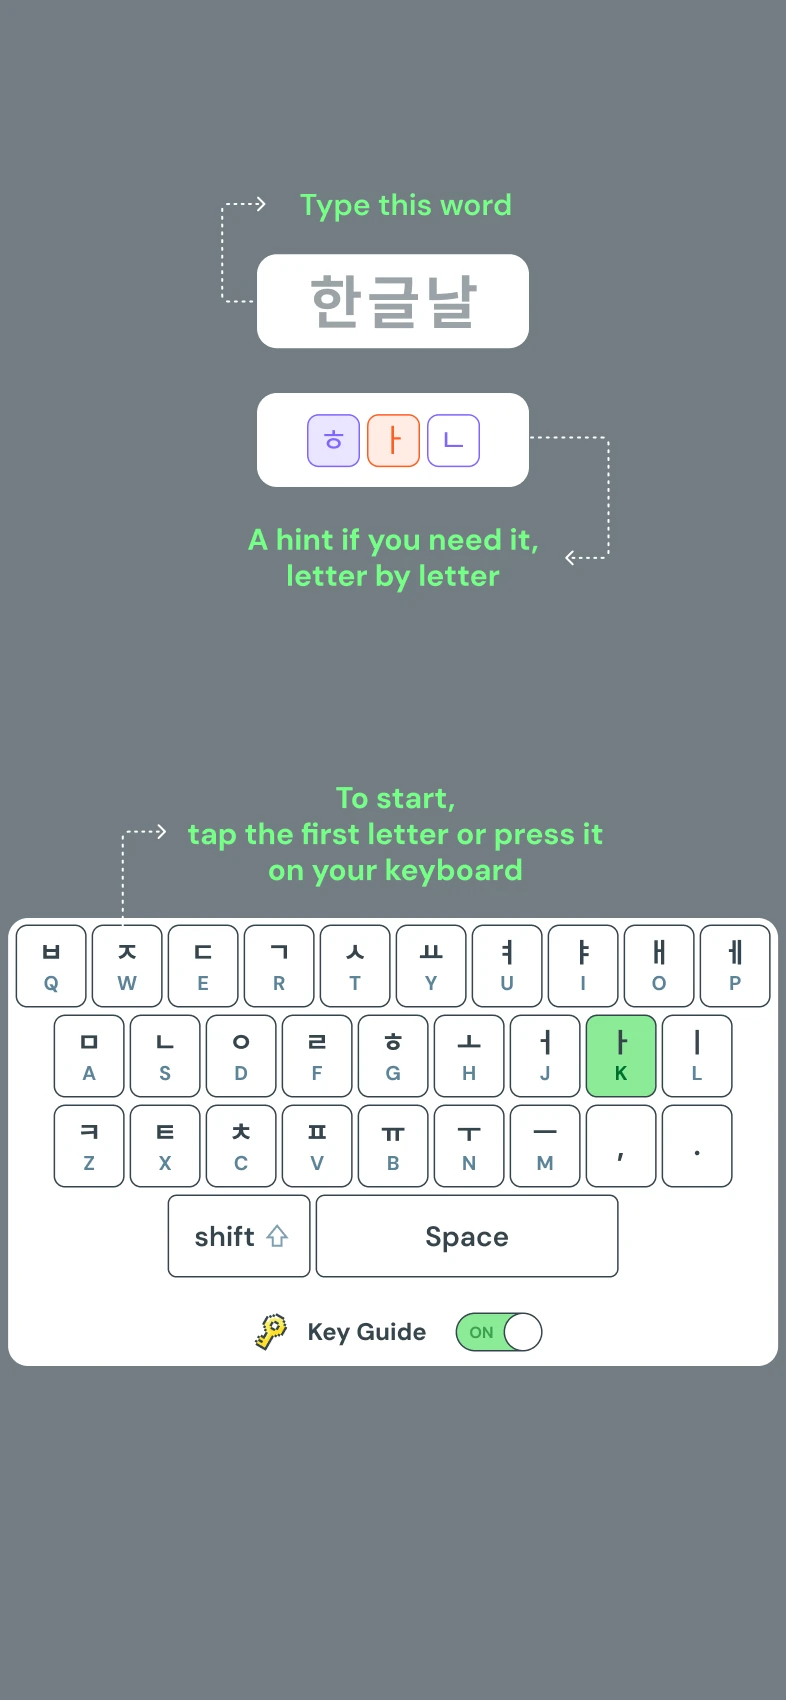
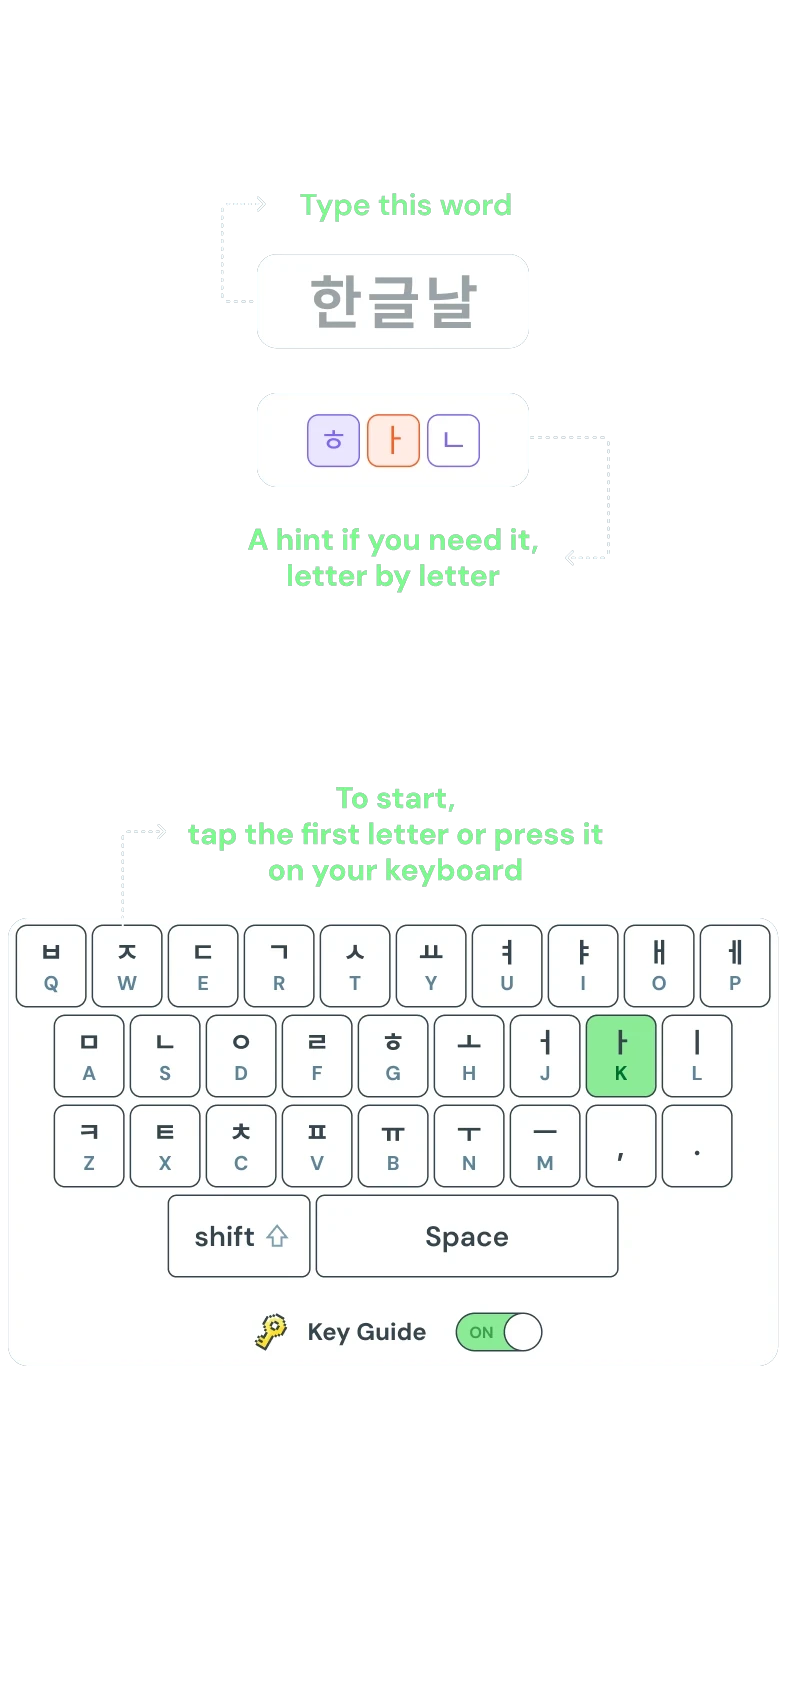
wip: A안 배경 투명 시안 — 어두운 막 없이 안내만 얹는다

diff --git a/components/game/Coachmark.tsx b/components/game/Coachmark.tsx
@@ -15,7 +15,7 @@ interface Props {
  * 첫 판 시작 직후 한 번만 뜨는 조작 안내.
  *
  * 이미지 안에 카드·키보드 그림이 함께 들어 있어(시안 그대로) 실제 화면 위에 덮어 쓴다.
- * 그래서 아래 게임 화면과 정확히 겹치지는 않는다 — 읽고 넘기는 설명 화면에 가깝다.
+ * 시안의 어두운 막은 지워서 뒤 게임 화면이 그대로 비친다 — 안내 문구와 그림만 얹힌다.
  * 화면 비율이 시안과 달라도 잘리기만 하도록 cover 로 채운다.
  */
 export function Coachmark({ onClose }: Props) {
@@ -31,7 +31,7 @@ export function Coachmark({ onClose }: Props) {
         e.preventDefault();
         onClose();
       }}
-      className="fixed inset-0 z-[70] cursor-pointer bg-[#36454d]"
+      className="fixed inset-0 z-[70] cursor-pointer"
     >
       <picture>
         <source media="(min-width: 640px)" srcSet={DESKTOP_SRC} />

diff --git a/app/RaceGame.tsx b/app/RaceGame.tsx
@@ -224,7 +224,7 @@ function RaceRound({
           onStart={() => {
             setShowStartPopup(false);
             // 저장값은 이 시점에 읽는다 — 서버 렌더와 초기 HTML 을 맞추기 위해서다
-            if (!hasSeenCoachmark()) setShowCoachmark(true);
+            if (hasSeenCoachmark()) setShowCoachmark(true);
           }}
         />
       )}
